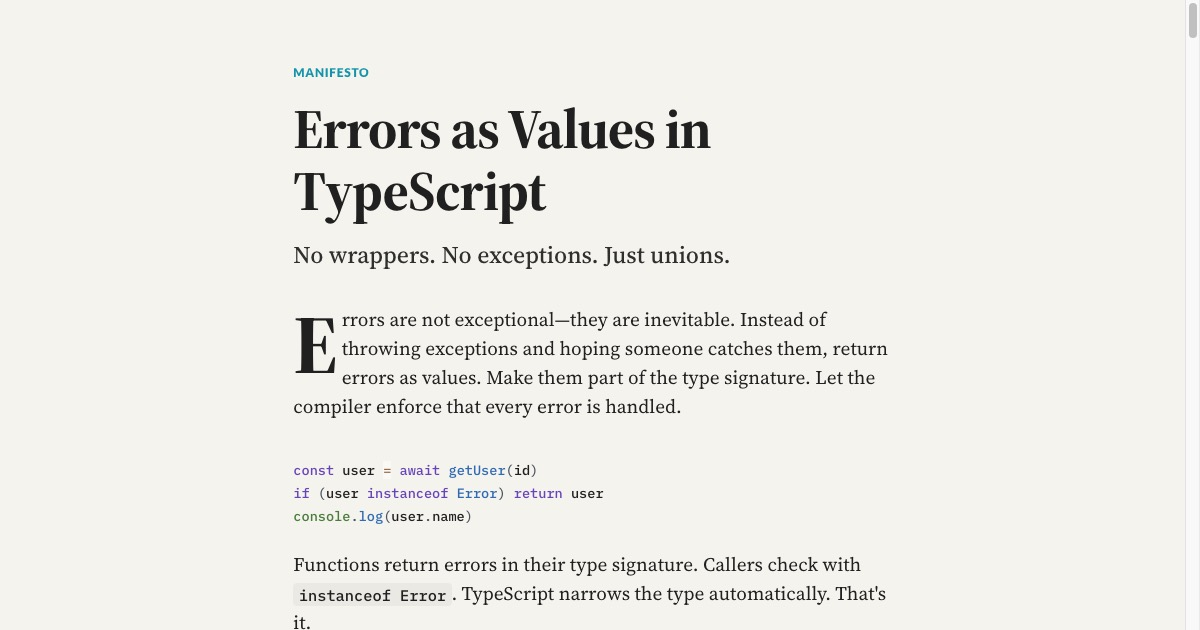
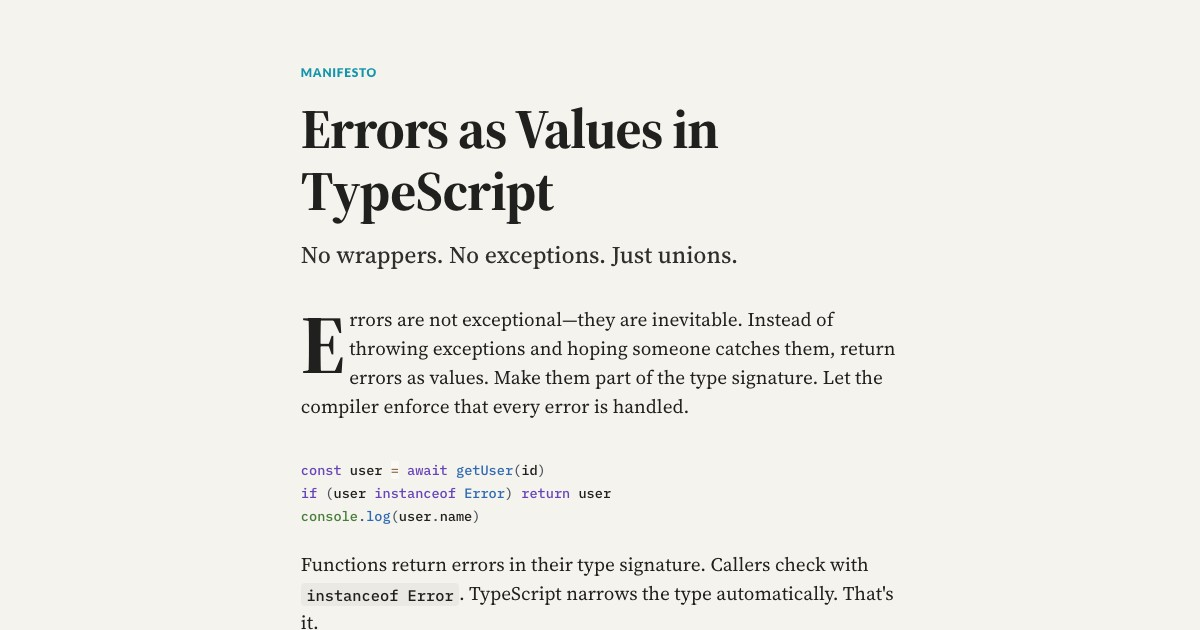
chore: update og-image without scrollbar

diff --git a/src/index.test.ts b/src/index.test.ts
@@ -825,22 +825,19 @@ describe('unknown value type (lossy union)', () => {
     // Runtime check works
     expect(result instanceof Error).toBe(false)
 
-    // Go-style early return - but type system doesn't help!
+    // Go-style early return
     // TypeScript simplifies `Error | unknown` to `unknown` before we even use it
     if (result instanceof Error) {
-      // THE BIG SURPRISE: Even instanceof Error doesn't narrow properly!
-      // Because the type was already collapsed to `unknown`
-      // @ts-expect-error - result is unknown, not Error
-      const _msg = result.message
+      // GOOD: instanceof Error DOES narrow to Error inside the block
+      const _msg = result.message // This works!
       return
     }
 
-    // After early return, result should be the value (not Error)
-    // But `Exclude<unknown, Error>` is still `unknown`
+    // THE BIG SURPRISE: After early return, result is still `unknown`!
+    // We handled the Error case, but TypeScript can't narrow `unknown` to
+    // "unknown minus Error" - it's still just `unknown`
 
-    // THE BIG SURPRISE: Even after narrowing, we can't access any properties
-    // because the narrowed type is still `unknown`
-    // @ts-expect-error - result.a is an error because result is unknown
+    // @ts-expect-error - result.a is an error because result is still unknown
     const _a = result.a
 
     // The only thing we can do is cast or use runtime checks
@@ -848,7 +845,7 @@ describe('unknown value type (lossy union)', () => {
     expect(value.a).toBe(1)
   })
 
-  test('instanceof Error also fails to narrow with unknown - THE BIG SURPRISE', () => {
+  test('instanceof Error DOES narrow inside the block', () => {
     const result = parseJSON('invalid json')
 
     // Runtime: this is an Error
@@ -856,38 +853,31 @@ describe('unknown value type (lossy union)', () => {
 
     // Go-style early return with instanceof Error
     if (result instanceof Error) {
-      // THE BIG SURPRISE: Even instanceof Error doesn't narrow to Error!
-      // Because the type `Error | unknown` was collapsed to just `unknown`
-      // before we even got here
+      // GOOD NEWS: instanceof Error DOES narrow correctly inside the block!
+      // Even though the type was `unknown`, inside here it's `Error`
+      const _message = result.message // This works!
 
-      // This SHOULD work if the union wasn't collapsed
-      // But result is still `unknown` so this is a type error
-      // @ts-expect-error - result is unknown, not Error
-      const _message = result.message
-
-      // Runtime still works, just no type safety
-      expect((result as Error).message).toContain('JSON')
+      expect(result.message).toContain('JSON')
     }
   })
 
-  test('Extract and Exclude behave unexpectedly with unknown', () => {
-    // These type-level tests show the problem:
-    // Extract<unknown, Error> = unknown (not Error!)
-    // Exclude<unknown, Error> = unknown (not never!)
+  test('Extract and Exclude with unknown', () => {
+    // Error | unknown simplifies to just `unknown`
+    // Then Extract/Exclude operate on `unknown`:
 
-    // This is because `unknown` is a top type that conditionally
-    // distributes in a special way
+    // Extract<unknown, Error> = never (unknown doesn't extend Error)
+    // Exclude<unknown, Error> = unknown (unknown doesn't extend Error, so not excluded)
 
     type TestExtract = Extract<Error | unknown, Error>
     type TestExclude = Exclude<Error | unknown, Error>
 
-    // Both of these are `unknown`, making the union completely useless
-    // for type narrowing purposes
+    // Extract gives `never` - can't assign anything
+    // @ts-expect-error - TestExtract is never, not unknown
+    const _extractTest: TestExtract = 'anything'
 
-    const extractTest: TestExtract = 'anything' // compiles because TestExtract is unknown
+    // Exclude gives `unknown` - can assign anything
     const excludeTest: TestExclude = new Error() // compiles because TestExclude is unknown
 
-    expect(extractTest).toBe('anything')
     expect(excludeTest instanceof Error).toBe(true)
   })
 

diff --git a/SKILL.md b/SKILL.md
@@ -23,29 +23,26 @@ The type `Error | unknown` **collapses to just `unknown`** because `unknown` is 
 
 ### The Big Surprise
 
-Even with `instanceof Error`, narrowing breaks down because TypeScript simplifies `Error | unknown` to just `unknown` before you even use it:
+TypeScript simplifies `Error | unknown` to just `unknown`. The `instanceof Error` check works inside the block, but **after the early return you still have `unknown`**:
 
 ```ts
 const result = parseJSON('{"a": 1}')
 
 // Go-style early return
 if (result instanceof Error) {
-  // You expect: result is Error
-  // Reality: result is still `unknown`
-  
-  // This is a type error!
-  console.log(result.message)  // Error: 'result' is of type 'unknown'
+  // GOOD: instanceof Error narrows to Error inside the block
+  console.log(result.message)  // Works!
   return
 }
 
-// You expect: result is the parsed value (not Error)
-// Reality: result is still `unknown`
+// THE SURPRISE: After early return, result is still `unknown`!
+// TypeScript can't narrow `unknown` to "unknown minus Error"
 
 // This is a type error - can't access properties on unknown!
 console.log(result.a)  // Error: 'result' is of type 'unknown'
 ```
 
-**You get zero type safety.** The code compiles but TypeScript can't help you at all.
+**You lose type safety on the success path.** Error handling works, but you can't use the value without casting.
 
 ### The Fix
 
